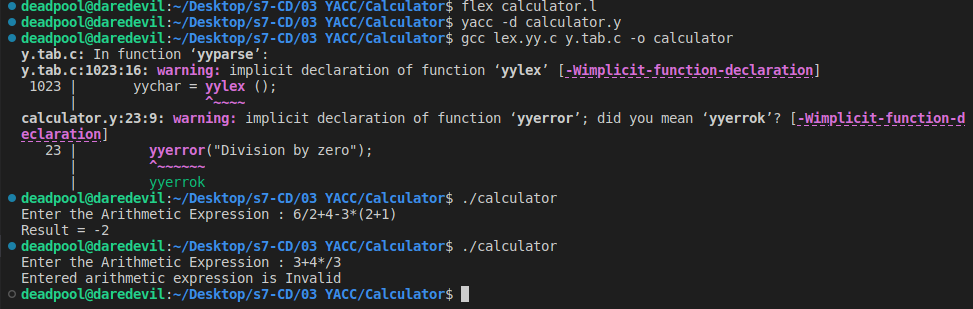
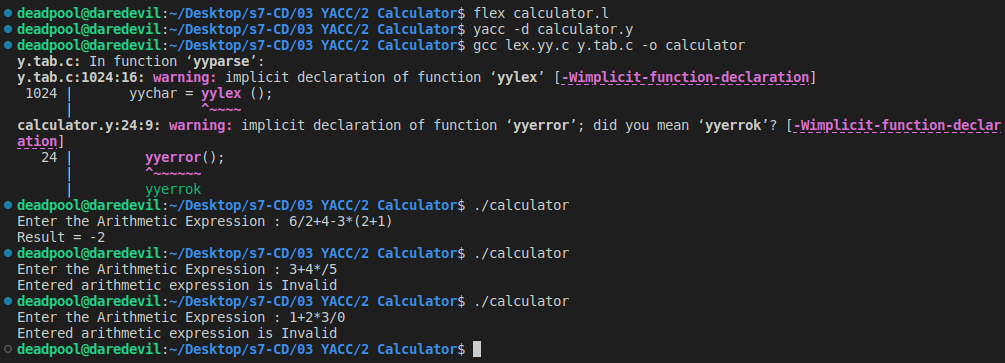
calculator

Changed region(s): [[0.0, 0.0, 1.0, 0.9903]]

diff --git a/03 YACC/2 Calculator/y.tab.c b/03 YACC/2 Calculator/y.tab.c
@@ -70,8 +70,9 @@
 #line 1 "calculator.y"
 
     #include<stdio.h>
+    #include<stdlib.h>
 
-#line 75 "y.tab.c"
+#line 76 "y.tab.c"
 
 # ifndef YY_CAST
 #  ifdef __cplusplus
@@ -544,7 +545,7 @@ static const yytype_int8 yytranslate[] =
 /* YYRLINE[YYN] -- Source line where rule number YYN was defined.  */
 static const yytype_int8 yyrline[] =
 {
-       0,    11,    11,    16,    17,    18,    19,    27,    35,    36
+       0,    12,    12,    17,    18,    19,    20,    27,    34,    35
 };
 #endif
 
@@ -1108,40 +1109,39 @@ yyreduce:
   switch (yyn)
     {
   case 2: /* S: E  */
-#line 11 "calculator.y"
+#line 12 "calculator.y"
      {
     printf("Result = %d\n", yyval);
     return 0;
 }
-#line 1117 "y.tab.c"
+#line 1118 "y.tab.c"
     break;
 
   case 3: /* E: E '+' E  */
-#line 16 "calculator.y"
+#line 17 "calculator.y"
            { yyval = yyvsp[-2] + yyvsp[0]; }
-#line 1123 "y.tab.c"
+#line 1124 "y.tab.c"
     break;
 
   case 4: /* E: E '-' E  */
-#line 17 "calculator.y"
+#line 18 "calculator.y"
         { yyval = yyvsp[-2] - yyvsp[0]; }
-#line 1129 "y.tab.c"
+#line 1130 "y.tab.c"
     break;
 
   case 5: /* E: E '*' E  */
-#line 18 "calculator.y"
+#line 19 "calculator.y"
         { yyval = yyvsp[-2] * yyvsp[0]; }
-#line 1135 "y.tab.c"
+#line 1136 "y.tab.c"
     break;
 
   case 6: /* E: E '/' E  */
-#line 19 "calculator.y"
+#line 20 "calculator.y"
         {
     if(yyvsp[0] != 0){
         yyval = yyvsp[-2] / yyvsp[0];
     }else{
-        yyerror("Division by zero");
-        YYABORT;
+        yyerror();
     }
 }
 #line 1148 "y.tab.c"
@@ -1153,27 +1153,26 @@ yyreduce:
     if(yyvsp[0] != 0){
         yyval = yyvsp[-2] % yyvsp[0];
     }else{
-        yyerror("Modulo by zero");
-        YYABORT;
+        yyerror();
     }
 }
-#line 1161 "y.tab.c"
+#line 1160 "y.tab.c"
     break;
 
   case 8: /* E: '(' E ')'  */
-#line 35 "calculator.y"
+#line 34 "calculator.y"
             { yyval = yyvsp[-1]; }
-#line 1167 "y.tab.c"
+#line 1166 "y.tab.c"
     break;
 
   case 9: /* E: NUM  */
-#line 36 "calculator.y"
+#line 35 "calculator.y"
       { yyval = yyvsp[0]; }
-#line 1173 "y.tab.c"
+#line 1172 "y.tab.c"
     break;
 
 
-#line 1177 "y.tab.c"
+#line 1176 "y.tab.c"
 
       default: break;
     }
@@ -1366,12 +1365,12 @@ yyreturnlab:
   return yyresult;
 }
 
-#line 38 "calculator.y"
+#line 37 "calculator.y"
 
 
 int yyerror(){
     printf("Entered arithmetic expression is Invalid\n");
-    return 1;
+    exit(0);
 }
 
 int main(){

diff --git a/03 YACC/2 Calculator/lex.yy.c b/03 YACC/2 Calculator/lex.yy.c
@@ -723,13 +723,13 @@ do_action:	/* This label is used only to access EOF actions. */
 case 1:
 YY_RULE_SETUP
 #line 8 "calculator.l"
-{ yylval=atoi(yytext); return NUM; }
+{ yylval = atoi(yytext); return NUM; }
 	YY_BREAK
 case 2:
 /* rule 2 can match eol */
 YY_RULE_SETUP
 #line 9 "calculator.l"
-{ return 0; }
+{;}
 	YY_BREAK
 case 3:
 YY_RULE_SETUP
